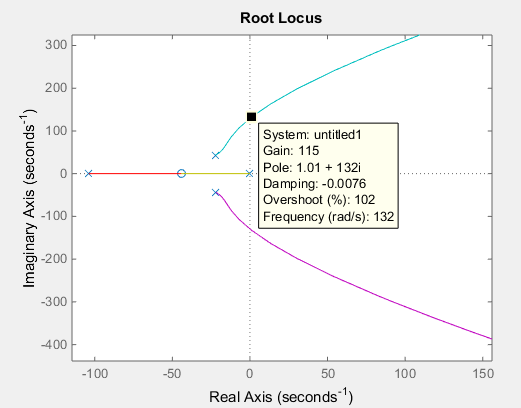
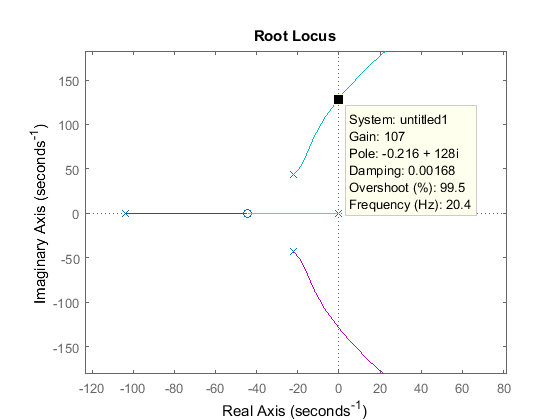
compensador externo casi finalizado

diff --git a/Informe final/Proyecto Levitador LaTeX/Informe/7-ImplementacionDigital/ImplementacionDigital.tex b/Informe final/Proyecto Levitador LaTeX/Informe/7-ImplementacionDigital/ImplementacionDigital.tex
@@ -906,33 +906,62 @@ Para implementar el algoritmo de control en el microcontrolador se aplica la tra
 \colorbox{red}{Ver si es necesario poner aca la ecuacion en diferencias}
 
 
+\section{Diseño del lazo de realimentación externo}
 
-\colorbox{red}{Aca empieza lazo externo}
- Se plantea un lazo de realimentaci\'{o}n externo como se muestra en la  figura \ref{fig:diagrama-del-sistema-completo}.
+\noindent Se plantea un lazo de realimentación externo como se muestra en la figura \ref{fig:diag-externo_dig}. 
 
 \begin{figure}[H]
 	\centering
-	\includegraphics[scale=0.4]{Diagrama-del-sistema-completo.png}
-	\caption{Diagrama del sistema completo.}
-	\label{fig:diagrama-del-sistema-completo}
+	\input{tikz/diagrama_lazo_externo_simplificado_dig.tex}
+	\caption{Diagrama en bloques del lazo de compensación externo.}	\label{fig:diag-externo_dig}
 \end{figure}
 
+En el lazo de realimentación interno actúa el compensador por adelanto de fase previamente diseñado y, en el externo, un controlador del tipo integral. Esto permite suavizar la respuesta al escalón del sistema y eliminar el error en régimen permanente.
 
- En el lazo de realimentaci\'{o}n interno act\'{u}a el compensador por adelanto de fase dise\~{n}ado previamente y, en el externo, un controlador del tipo integral. De esta forma, se logra suavizar la respuesta al escal\'{o}n del sistema y eliminar el error en r\'{e}gimen permanente.
 
 
- Para el an\'{a}lisis se considera $H(w)=1$ como realimentaci\'{o}n. La cadena de avance con masa de $30\:kg$ es:
+\noindent La cadena de avance con masa de $30\:kg$ es:
 
-\[G(W)[M=30]=Tlc(W)[M=30]*G_{integ}\] 
+\begin{equation} \label{eq_cadena_avance_integrador}
+	G=TLC_{interna}(w)[M=30\:kg]*G_{ext}
+\end{equation}
 
- Se  plantea un compensador del tipo :
+La transferencia a lazo abierto resulta:
 
-\[G_{integ}\ =\ k_{int}\ *\ \frac{1}{w}\] 
+\begin{equation} \label{eq_lazo_abierto_externo}
+	GH_{externo}=TLC_{interna}(w)[M=30\:kg]*G_{ext}
+\end{equation}
 
- La ganancia del bloque de entrada (F) se establece igual a la ganancia del estimador (H) pero cambiada de signo, debido a que la transferencia de lazo cerrado tiene una inversi\'{o}n de fase. Por lo tanto, se toma $F=-H=-1$.
+Se plantea un compensador del tipo integrador cuya transferencia es:
+\begin{equation}
+	G_{ext}= \frac{K_{int}}{w}
+\end{equation}
 
- Inicialmente se adopta $k_{int} = 1$ para poder evaluar, por medio de lugar de ra\'{i}ces mostrado en la figura \ref{fig:lugar-de-raices-con-integrador}, la estabilidad del sistema. Para este lazo de realimentaci\'{o}n externo tambi\'{e}n debe utilizarse realimentaci\'{o}n positiva puesto que los polos de la TLC interna est\'{a}n en el semiplano izquierdo pero presenta una inversi\'{o}n de signo.
 
+Para encontrar el valor adecuado de $K_{int}$ se grafica el lugar de raíces de la expresión \ref{eq_lazo_abierto_externo} considerando $K_{int}=1$. En la figura \ref{fig:lugar-de-raices-con-integrador_real_neg} se muestra un acercamiento del lugar de raíces en la zona del origen.
+
+
+\begin{figure}[H]
+	\centering
+	\includegraphics[scale=0.7]{Lugar-de-raices-con-integrador_real_neg.png}
+	\caption{Lugar de raíces con el integrador.}
+	\label{fig:lugar-de-raices-con-integrador_real_neg}
+\end{figure}
+
+\colorbox{red}{ver si aclaramos algo sobre si es lugar de raices continuo y discreto}
+
+
+
+
+En la figura \ref{fig:lugar-de-raices-con-integrador_real_neg} se puede observar que, el sistema resultaría inestable para cualquier valor de $K_{int}$, ya que el polo ubicado en $w=0$ se movería hacia el semiplano derecho. Por lo tanto, se propone utilizar realimentación positiva en el diagrama en bloques de la figura \ref{fig:diag-externo_dig}, obteniendo así el que se muestra la figura \ref{fig:diag-externo_real_positiva_dig}. De esta forma, el polo del integrador cambia el sentido de desplazamiento y el lugar de raíces resulta como se muestra en la \ref{fig:lugar-de-raices-con-integrador}.
+
+
+\begin{figure}[H]
+	\centering
+	\input{tikz/diagrama_lazo_externo_realim_positiva_dig.tex}
+	\caption{Diagrama en bloques del lazo de compensación externo con realimentación positiva.}	
+	\label{fig:diag-externo_real_positiva_dig}
+\end{figure}
 
 \begin{figure}[H]
 	\centering
@@ -941,8 +970,9 @@ Para implementar el algoritmo de control en el microcontrolador se aplica la tra
 	\label{fig:lugar-de-raices-con-integrador}
 \end{figure}
 
+\colorbox{red}{Ver de aclarar como pasamos de Vyref valores de posición...}
 
- En la figura \ref{fig:lugar-de-raices-con-integrador} se puede observar que, para que se mantenga la estabilidad del sistema, la ganancia del integrador ($K_{int}$) debe ser menor a 115. Por lo tanto, en la figura \ref{fig:respuesta-al-escalon-con-k-1-M-30} se muestra la respuesta al escal\'{o}n del sistema compensado con el integrador para una ganancia de $K_{int}=1$.  Es posible observar que, si bien no presenta oscilaciones, el tiempo de establecimiento es de aproximadamente $3\:s$. Por lo tanto, se decide aumentar el valor de ganancia hasta obtener una relaci\'{o}n aceptable entre el tiempo de respuesta y el sobrepico.
+\noindent En la figura \ref{fig:lugar-de-raices-con-integrador} se puede observar que, para que se mantenga la estabilidad del sistema, la ganancia del integrador ($K_{int}$) debe ser menor a 107. Teniendo esto en cuenta, en la figura \ref{fig:respuesta-al-escalon-con-k-1-M-30} se muestra la respuesta al escalón del sistema compensado con el integrador para una ganancia de $K_{int}=1$. Por otro lado, para obtener una salida positiva es necesario considerar el bloque F del diagrama \ref{fig:diag-externo_real_positiva_dig} como una ganancia unitaria negativa.
 
 
 \begin{figure}[H]
@@ -953,41 +983,90 @@ Para implementar el algoritmo de control en el microcontrolador se aplica la tra
 \end{figure}
 
 
- En la figura \ref{fig:respuesta-al-escalon-con-k-20-M-30}, se observa la respuesta al escal\'{o}n para una ganancia del integrador de $K_{int}=20$ que resulta en un tiempo de establecimiento de $0.22\:s$ y un \textsl{overshoot} de 4.41\%. Por lo tanto, se adopta este valor de ganancia para el dise\~{n}o del integrador.
+Al observar la figura \ref{fig:respuesta-al-escalon-con-k-1-M-30} es posible notar que la respuesta al escalón, si bien no posee oscilaciones, tiene un tiempo de establecimiento de  $2.94\:s$. Por lo tanto, para que el sistema presente mayor velocidad de respuesta, se decide aumentar el valor de ganancia hasta obtener una relación aceptable entre este tiempo y el sobrepico.
 
-\begin{figure}[H]
-	\centering
-	\includegraphics[scale=0.85]{Respuesta-al-escalon-con-k-20-M-30.png}
-	\caption{Respuesta al escalón con integrador para $K_{int} =20$ y $M = 30\:kg$.}
-	\label{fig:respuesta-al-escalon-con-k-20-M-30}
-\end{figure}
+En la figura \ref{fig:respuesta-al-escalon-con-k-5-M-30}, se observa la respuesta al escalón para una ganancia del integrador de $K_{int}=5$ que resulta en un tiempo de establecimiento de $0.626\:s$ sin sobrepicos. Por lo tanto, se adopta este valor de ganancia para el diseño del integrador. Finalmente la transferencia del compensador externo queda:
 
-
- La respuesta al escal\'{o}n cuando la masa es de $1\:kg$ se muestra en la figura \ref{fig:respuesta-al-escalon-con-k-20-M-1}. All\'{i} se puede observar que el tiempo de crecimiento es de $0.104\:s$ y el de establecimiento de $0.196\:s$. Adem\'{a}s, es posible notar que no presenta sobrepicos.
-
+\begin{equation} \label{eq_gexterno}
+	G_{ext}=\frac{5}{w}	
+\end{equation}
 
 
 \begin{figure}[H]
 	\centering
-	\includegraphics[scale=0.85]{Respuesta-al-escalon-con-k-20-M-1.png}
-	\caption{Respuesta al escalón con integrador para $K_{int} =20$ y $M=1\:kg$.}
-	\label{fig:respuesta-al-escalon-con-k-20-M-1}
+	\includegraphics[scale=0.7]{Respuesta-al-escalon-con-k-5-M-30.png}
+	\caption{Respuesta al escalón con integrador para $K_{int} =5$ y $M = 30\:kg$.}
+	\label{fig:respuesta-al-escalon-con-k-5-M-30}
 \end{figure}
+
+
+
+%\begin{figure}[H]
+%	\centering
+%	\includegraphics[scale=0.4]{Diagrama-del-sistema-completo.png}
+%	\caption{Diagrama del sistema completo.}
+%	\label{fig:diagrama-del-sistema-completo}
+%\end{figure}
+
+
+
+ La respuesta al escal\'{o}n cuando la masa es de $1\:kg$ se muestra en la figura \ref{fig:respuesta-al-escalon-con-k-5-M-1}. Allí se puede observar que el tiempo de establecimiento es de $0.752\:s$ y tampoco presenta sobrepicos.
+
+
+
+\begin{figure}[H]
+	\centering
+	\includegraphics[scale=0.85]{Respuesta-al-escalon-con-k-5-M-1.png}
+	\caption{Respuesta al escalón con integrador para $K_{int} =5$ y $M=1\:kg$.}
+	\label{fig:respuesta-al-escalon-con-k-5-M-1}
+\end{figure}
+
+\section{Cálculo de ganancia de entrada}
+
+\colorbox{red}{Ver si ponemos algo de la ganancia de entrada}
+
+
+\subsection{Transferencia de lazo cerrado}
+
+Finalmente se puede expresar la función transferencia del lazo de control externo como:
+
+\begin{equation}
+	TLC_{externa}(w)=\frac{Y_g}{V_{y_{ref}}}=\frac{F*G_{ext}*TLC_{interna}}{1-G_{ext}*TLC_{interna}}
+	%	\frac{-3.6301*}{den}
+\end{equation}
+
+%   0.00043659 (s+1.237e04) (s-1.238e04) (s-7143) (s+44.34)^2
+%-----------------------------------------------------------
+%(s+1196) (s+474.7) (s+99.01) (s+6.03) (s^2 + 39.87s + 2768)
+Considerando que $F=-1$ y el caso de masa $M=30\:kg$ la transferencia de lazo cerrado queda:
+
+\begin{equation*}
+	\resizebox{.99\hsize}{!}
+	{
+		$
+		TLC_{externa}(w)=\frac{4.37*10^{-4} (w+1.24*10^{4}) (w-1.24*10^{4}) (w-7143) (w+44.34)^2}{(w+1196) (w+474.7) (w+99.01) (w+6.03) (w^2 + 39.87w + 2768)}
+		$
+	}
+\end{equation*}
+
 
 
 \section{Cálculo de los coeficientes del controlador}
 
- Para implementar el algoritmo de control en el microcontrolador se aplica la transformada bilineal inversa a las transferencias del compensador por adelanto de fase $C(w)$ y al integrador $G_{integ}(w)$.
+ Para implementar el algoritmo de control en el microcontrolador se aplica la transformada bilineal inversa a la transferencia del compensador externo $G_{ext}(w)$.
 
- Por lo tanto, se obtiene:
+Por lo tanto, se obtiene:
 
-\begin{equation} \label{GrindEQ__5_6_} 
-	C(z)=\ \ \frac{U(z)}{e(z)}=\frac{8.6896*10^5(z-0.9877)^2}{\ (z-0.7757)^2}\  
+
+%0.0007 + 0.0007 z^-1
+%--------------------
+%1 - z^-1
+
+\begin{equation} \label{eq_comp_externo_z} 
+	G_{ext}(z)=\frac{e_f(z)}{e_i(z)}\ =\frac{0.0007(1+z^{-1})}{1-z^{-1}} 
 \end{equation} 
 
-\begin{equation} \label{GrindEQ__5_7_} 
-	G_{integ}(z)=\frac{e_f(z)}{e_i(z)}\ =\frac{0.0028(\ z\ +\ 1)}{\ (z\ -\ 1)} 
-\end{equation} 
+\colorbox{red}{rehacer lo de abajo}
 
  Si se considera $H(z)=1$ se obtiene que:
 

diff --git a/Informe final/Proyecto Levitador LaTeX/Informe/7-ImplementacionDigital/tikz/diagrama_lazo_externo_simplificado_dig.tex b/Informe final/Proyecto Levitador LaTeX/Informe/7-ImplementacionDigital/tikz/diagrama_lazo_externo_simplificado_dig.tex
@@ -1,0 +1,43 @@
+\tikzset{%
+	buffer/.style={
+		draw,
+		shape border rotate=270,
+		regular polygon,
+		regular polygon sides=3,
+		fill=blue!20,
+		node distance=2cm,
+		minimum height=4em
+	}
+}
+
+\tikzstyle{block} = [draw, fill=blue!20, rectangle, 
+minimum height=2.5em, minimum width=3em]
+
+%Acá se define eñ diagrama en bloques completo
+\begin{tikzpicture}[auto, node distance=1.5cm,>=latex']
+	% We start by placing the blocks
+	\node [input, name=input] {};
+	\node [buffer, right=of input](F){F};
+	\node [sum, right of=F, node distance=1.5cm] (suma_interna) {+};
+	\node [block, right=of suma_interna] (interno) {$G_{ext}$};
+	\node [block, right=of interno] (tlc_interna) {$TLC_{interna}$};
+	\node [block, below=of interno] (realimentacion_interna) {$H_{estim}$};
+	
+	
+%	\node [block, right of=suma] (amplificador) {$A(s)$};
+	\node [output, right of=tlc_interna, node distance=3cm] (output) {};
+%	\node [block, below of=amplificador] (realimentacion) {$H(s)$};
+%	
+%	
+%	% Once the nodes are placed, connecting them is easy. 
+	\draw [draw,->] (input) -- node[pos=0.2]{$V_{y_{ref}}$} (F);
+	\draw [draw,->] (F) --  node[pos=0.9]{$+$}(suma_interna);
+	\draw [draw,->] (suma_interna) --node{$Ve_{ext}$} (interno);
+	\draw [draw,->] (interno) -- node{$V_{ref_c}$} (tlc_interna);
+	\draw [draw,->] (tlc_interna) -- node[name=y]{$Y_g$} (output);
+%	\draw [draw,->] (amplificador) -- node[name=y]{$V_{deriv}$} (output);
+	\draw [->] (y) |- (realimentacion_interna);
+	\draw [->] (realimentacion_interna) -| node[pos=0.25]{$V_{estim}$}  node[pos=0.99]{$-$} (suma_interna);
+%	\draw [->] (y) |- (realimentacion_externa);
+%	\draw [->] (realimentacion_externa) -| node[pos=0.25]{$V_{estim}$} node[pos=0.99]{-} (suma_externa);
+\end{tikzpicture}

diff --git a/Informe final/Proyecto Levitador LaTeX/Informe/7-ImplementacionDigital/tikz/diagrama_lazo_externo_realim_positiva_dig.tex b/Informe final/Proyecto Levitador LaTeX/Informe/7-ImplementacionDigital/tikz/diagrama_lazo_externo_realim_positiva_dig.tex
@@ -1,0 +1,43 @@
+\tikzset{%
+	buffer/.style={
+		draw,
+		shape border rotate=270,
+		regular polygon,
+		regular polygon sides=3,
+		fill=blue!20,
+		node distance=2cm,
+		minimum height=4em
+	}
+}
+
+\tikzstyle{block} = [draw, fill=blue!20, rectangle, 
+minimum height=2.5em, minimum width=3em]
+
+%Acá se define eñ diagrama en bloques completo
+\begin{tikzpicture}[auto, node distance=1.5cm,>=latex']
+	% We start by placing the blocks
+	\node [input, name=input] {};
+	\node [buffer, right=of input](F){F};
+	\node [sum, right of=F, node distance=2cm] (suma_interna) {+};
+	\node [block, right=of suma_interna] (interno) {$G_{ext}$};
+	\node [block, right=of interno] (tlc_interna) {$TLC_{interna}$};
+	\node [block, below=of interno] (realimentacion_interna) {$H_{estim}$};
+	
+	
+%	\node [block, right of=suma] (amplificador) {$A(s)$};
+	\node [output, right of=tlc_interna, node distance=3cm] (output) {};
+%	\node [block, below of=amplificador] (realimentacion) {$H(s)$};
+%	
+%	
+%	% Once the nodes are placed, connecting them is easy. 
+	\draw [draw,->] (input) -- node[pos=0.2]{$V_{y_{ref}}$} (F);
+	\draw [draw,->] (F) --  node[pos=0.9]{$+$}(suma_interna);
+	\draw [draw,->] (suma_interna) -- node{$Ve_{ext}$} (interno);
+	\draw [draw,->] (interno) -- node{$V_{ref_c}$} (tlc_interna);
+	\draw [draw,->] (tlc_interna) -- node[name=y]{$Y_g$} (output);
+%	\draw [draw,->] (amplificador) -- node[name=y]{$V_{deriv}$} (output);
+	\draw [->] (y) |- (realimentacion_interna);
+	\draw [->] (realimentacion_interna) -| node[pos=0.25]{$V_{estim}$}  node[pos=0.99]{$+$} (suma_interna);
+%	\draw [->] (y) |- (realimentacion_externa);
+%	\draw [->] (realimentacion_externa) -| node[pos=0.25]{$V_{estim}$} node[pos=0.99]{-} (suma_externa);
+\end{tikzpicture}
